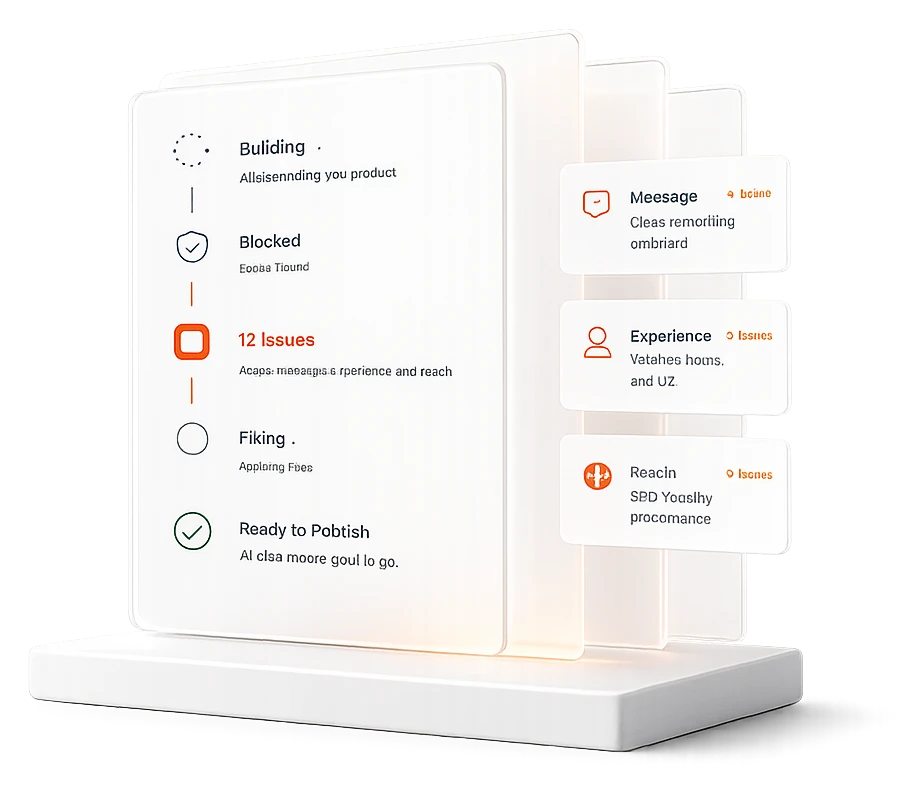
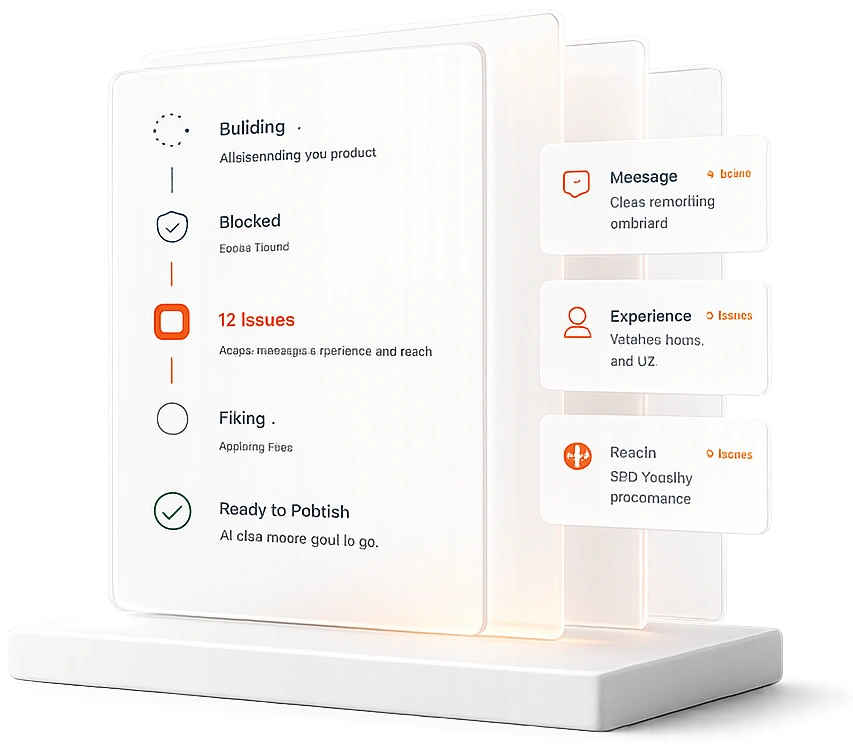
Update marketing components and enhance navigation styles
- Added new tasks to BOARD.md for improved project tracking.
- Refined styles in AuditInput and Header components for better visual consistency.
- Introduced NAV_LINK_MARKETING for tighter marketing navigation.
- Updated marketing copy in nav.test.ts to reflect accurate labeling.
- Adjusted LandingHeroSection for improved layout and visual hierarchy.
- Enhanced AssuranceRow and MarketingHeaderAuth for better user experience and design alignment.

diff --git a/components/marketing/landing/LandingHeroSection.tsx b/components/marketing/landing/LandingHeroSection.tsx
@@ -8,31 +8,31 @@ import { Section } from '@/components/ui/section'
 import { Heading } from '@/components/ui/typography'
 import { HERO } from '@/lib/marketing/copy'
 
-/** Official glass hero (RGBA WebP). No re-key/resample beyond encode. */
+/** Official glass hero (RGBA WebP). */
 const HERO_GLASS = {
   src: '/marketing/visuals/home-hero-glass.webp',
-  width: 901,
-  height: 790,
+  width: 853,
+  height: 747,
 } as const
 
 export function LandingHeroSection() {
   return (
     <Section
-      spacing="marketing"
-      className="relative overflow-hidden pb-6 pt-2 sm:pb-8 lg:pb-10"
+      spacing="compact"
+      className="relative flex min-h-0 flex-col overflow-x-clip pb-4 pt-1 sm:pb-5 lg:pb-6"
     >
-      <Container variant="wide" className="xl:max-w-7xl">
-        <div className="grid items-center gap-8 lg:grid-cols-[minmax(0,0.92fr)_minmax(0,1.18fr)] lg:gap-x-4 xl:gap-x-8">
-          <div className="order-1 flex max-w-xl flex-col gap-5 sm:gap-5 lg:max-w-[34rem] xl:max-w-[36rem]">
-            <p className="inline-flex items-center gap-2 font-mono text-[0.6875rem] font-medium uppercase tracking-label text-brand sm:text-xs">
+      <Container variant="wide" className="flex flex-col xl:max-w-[80rem]">
+        <div className="grid items-start gap-4 lg:grid-cols-[minmax(0,0.9fr)_minmax(0,1.2fr)] lg:gap-x-2 xl:gap-x-5">
+          <div className="order-1 flex max-w-xl flex-col gap-3 sm:gap-3.5 lg:max-w-[34rem] lg:pt-3 xl:max-w-[36rem] xl:pt-4">
+            <p className="inline-flex items-center gap-2 font-mono text-[0.6875rem] font-medium uppercase tracking-[0.2em] text-brand sm:text-xs">
               <span className="h-1.5 w-1.5 shrink-0 rounded-full bg-brand" aria-hidden />
               {HERO.badge}
             </p>
 
-            <div className="space-y-3 sm:space-y-3.5">
+            <div className="space-y-3.5 sm:space-y-4">
               <Heading
                 as="h1"
-                className="max-w-[14ch] text-[2.5rem] leading-[1.02] tracking-display sm:text-[2.875rem] sm:leading-[1.03] lg:text-[3.375rem] xl:text-[3.625rem]"
+                className="max-w-[14ch] text-[2.75rem] font-bold leading-[1.08] tracking-display sm:text-[3.125rem] sm:leading-[1.08] lg:text-[3.625rem] xl:text-[3.875rem]"
               >
                 {HERO.headlineDisplay}
                 {HERO.headlineAccentPeriod ? (
@@ -41,14 +41,14 @@ export function LandingHeroSection() {
                   </span>
                 ) : null}
               </Heading>
-              <p className="max-w-[36ch] text-[0.9375rem] leading-relaxed text-muted-foreground text-pretty sm:max-w-md sm:text-base lg:text-lg">
+              <p className="max-w-[42ch] text-[0.9375rem] leading-relaxed text-muted-foreground/95 text-pretty sm:max-w-xl sm:text-base lg:max-w-[34rem] lg:text-[1.0625rem] lg:leading-relaxed">
                 {HERO.subhead}
               </p>
             </div>
 
             <div
               id="audit"
-              className="w-full scroll-mt-[calc(var(--header-offset)+1rem)]"
+              className="w-full scroll-mt-[calc(var(--header-offset)+1rem)] pt-0.5"
             >
               <AuditInput
                 variant="landing"
@@ -60,25 +60,26 @@ export function LandingHeroSection() {
 
             <AssuranceRow />
 
-            <p className="inline-flex items-center gap-2 text-sm text-muted-foreground">
+            {/* Product-true trust only — no invented member counts or avatars */}
+            <p className="inline-flex items-center gap-2 text-sm text-foreground/80">
               <Zap className="h-3.5 w-3.5 shrink-0 text-brand" strokeWidth={2} aria-hidden />
-              <span className="font-medium text-foreground/80">{HERO.trustLine}</span>
+              <span className="font-medium">{HERO.trustLine}</span>
             </p>
 
             <EditorToolMarks
               compact
               showLabel
-              className="pt-1 [&_p]:font-mono [&_p]:text-[0.6875rem] [&_p]:uppercase [&_p]:tracking-label [&_ul]:justify-start [&_ul]:gap-x-4 [&_ul]:gap-y-2 [&_li]:text-[0.8125rem] [&_li_svg]:h-4 [&_li_svg]:w-4"
+              className="mt-0.5 space-y-2 [&_p]:font-mono [&_p]:text-[0.625rem] [&_p]:font-medium [&_p]:uppercase [&_p]:tracking-[0.16em] [&_p]:text-muted-foreground/85 [&_ul]:flex-nowrap [&_ul]:justify-start [&_ul]:gap-x-3.5 [&_ul]:gap-y-2 [&_li]:gap-1.5 [&_li]:text-[0.75rem] [&_li]:font-semibold [&_li]:tracking-normal [&_li]:text-foreground/70 [&_li_svg]:h-4 [&_li_svg]:w-4 [&_li_svg]:opacity-95"
             />
           </div>
 
-          <div className="order-2 relative mx-auto w-full max-w-[24rem] sm:max-w-[28rem] lg:mx-0 lg:max-w-none lg:justify-self-stretch">
+          <div className="order-2 relative mx-auto w-full max-w-[24rem] sm:max-w-[28rem] lg:mx-0 lg:-mt-1 lg:flex lg:max-w-none lg:items-start lg:justify-self-end xl:-mt-2">
             <div
               aria-hidden
-              className="pointer-events-none absolute left-[12%] top-[18%] h-[58%] w-[70%] rounded-full bg-[radial-gradient(ellipse_at_center,hsl(var(--brand)/0.18),transparent_68%)] blur-2xl"
+              className="pointer-events-none absolute left-[12%] top-[10%] h-[68%] w-[75%] rounded-full bg-[radial-gradient(ellipse_at_center,hsl(var(--brand)/0.26),transparent_68%)] blur-[64px]"
             />
             <div
-              className="relative mx-auto w-full lg:ml-auto lg:mr-[-2%] lg:w-[min(108%,44rem)] xl:mr-[-4%] xl:w-[min(112%,48rem)]"
+              className="relative mx-auto w-full lg:ml-auto lg:w-[min(105%,44rem)] xl:w-[min(108%,48rem)]"
               style={{ aspectRatio: `${HERO_GLASS.width} / ${HERO_GLASS.height}` }}
             >
               <Image
@@ -89,7 +90,7 @@ export function LandingHeroSection() {
                 priority
                 unoptimized
                 sizes="(min-width: 1280px) 48rem, (min-width: 1024px) 44rem, (min-width: 640px) 28rem, 24rem"
-                className="h-full w-full select-none object-contain object-center drop-shadow-[0_28px_48px_hsl(240_8%_5%/0.14)] lg:object-right"
+                className="h-full w-full select-none object-contain object-center drop-shadow-[0_20px_40px_-10px_hsl(240_8%_5%/0.1)] lg:object-right"
                 draggable={false}
               />
             </div>
@@ -98,7 +99,7 @@ export function LandingHeroSection() {
 
         <a
           href="#sample-review"
-          className="mx-auto mt-8 flex w-fit flex-col items-center gap-1 pb-1 text-[0.625rem] font-medium uppercase tracking-[0.18em] text-muted-foreground/70 transition-colors hover:text-muted-foreground sm:mt-10"
+          className="mx-auto mt-3 flex w-fit flex-col items-center gap-0.5 text-[0.625rem] font-medium uppercase tracking-[0.18em] text-muted-foreground/85 transition-colors hover:text-muted-foreground sm:mt-4"
         >
           {HERO.scrollHint}
           <ChevronDown className="h-3.5 w-3.5 animate-bounce motion-reduce:animate-none" aria-hidden />

diff --git a/components/audit/AuditInput.tsx b/components/audit/AuditInput.tsx
@@ -168,16 +168,16 @@ export function AuditInput({
     <div className={cn('flex w-full flex-col gap-3', isLanding ? 'w-full' : 'max-w-2xl')}>
       <form onSubmit={handleSubmit} className="flex flex-col gap-2">
         {isLanding ? (
-          <InputGroup className="gap-1.5 rounded-full border-border/50 bg-background p-1.5 shadow-[0_1px_2px_hsl(240_8%_5%/0.04),0_12px_32px_-14px_hsl(240_8%_5%/0.2)] sm:flex-row sm:items-center sm:gap-1 sm:p-1.5 sm:pr-1.5">
+          <InputGroup className="gap-1.5 rounded-[1.35rem] border-border/35 bg-background p-1.5 shadow-[0_2px_4px_hsl(240_8%_5%/0.04),0_16px_40px_-16px_hsl(240_8%_5%/0.18)] sm:flex-row sm:items-center sm:gap-1 sm:p-[0.4rem] sm:pr-[0.4rem]">
             <label htmlFor={inputId} className="sr-only">
               Website URL
             </label>
             <div className="flex min-w-0 flex-1 items-center">
               <span
-                className="inline-flex shrink-0 items-center self-center pl-3.5 text-muted-foreground/70 sm:pl-4"
+                className="inline-flex shrink-0 items-center self-center pl-3.5 text-muted-foreground/80 sm:pl-4"
                 aria-hidden
               >
-                <Link2 className="h-4 w-4" strokeWidth={1.75} />
+                <Link2 className="h-[1.125rem] w-[1.125rem]" strokeWidth={1.75} />
               </span>
               <InputGroupInput
                 id={inputId}
@@ -202,7 +202,7 @@ export function AuditInput({
                 disabled={busy}
                 aria-invalid={Boolean(urlError)}
                 aria-describedby={describedBy}
-                className="h-11 min-h-11 flex-1 pl-2.5 pr-2 text-[0.9375rem] sm:h-12 sm:min-h-12 sm:pl-2.5 sm:text-base"
+                className="h-12 min-h-12 flex-1 pl-2.5 pr-2 text-[0.9375rem] placeholder:text-muted-foreground/75 sm:h-[3.25rem] sm:min-h-[3.25rem] sm:pl-2.5 sm:text-base sm:placeholder:text-muted-foreground/70"
               />
             </div>
             <Button
@@ -211,7 +211,7 @@ export function AuditInput({
               size="lg"
               disabled={busy}
               className={cn(
-                'h-11 min-h-11 w-full shrink-0 gap-1.5 rounded-full px-4 text-sm font-semibold sm:h-12 sm:min-h-12 sm:w-auto sm:min-w-[10.5rem] sm:gap-2 sm:px-5 sm:text-base'
+                'h-12 min-h-12 w-full shrink-0 gap-1.5 rounded-[calc(1.35rem-5px)] px-5 text-sm font-semibold sm:h-[3.25rem] sm:min-h-[3.25rem] sm:w-auto sm:min-w-[11.5rem] sm:gap-2 sm:px-6 sm:text-base'
               )}
             >
               {busy ? (

diff --git a/components/layout/header.tsx b/components/layout/header.tsx
@@ -8,6 +8,7 @@ import {
   NAV_LINK_ACTIVE,
   NAV_LINK_BASE,
   NAV_LINK_INACTIVE,
+  NAV_LINK_MARKETING,
   NAV_LINK_MOBILE_ACTIVE,
   NAV_LINK_MOBILE_BASE,
 } from '@/lib/site/nav-styles'
@@ -80,7 +81,8 @@ export function Header({
       <Container>
         <div
           className={cn(
-            'grid h-14 items-center gap-3',
+            'grid items-center gap-3',
+            isMarketing ? 'h-[3.75rem] pt-0.5' : 'h-14',
             !showNavigation
               ? 'grid-cols-[1fr_auto]'
               : isMarketing
@@ -89,7 +91,7 @@ export function Header({
                 : 'grid-cols-[auto_1fr_auto]'
           )}
         >
-          <div className="flex min-w-0 items-center gap-3">
+          <div className={cn('flex min-w-0 items-center gap-3', isMarketing && 'translate-y-px')}>
             <span className="sm:hidden">
               <Logo
                 variant="lockup"
@@ -114,15 +116,15 @@ export function Header({
           {showNavigation ? (
             <nav
               className={cn(
-                'items-center gap-0.5',
-                isMarketing ? 'hidden justify-center lg:flex' : 'hidden md:flex'
+                'items-center',
+                isMarketing ? 'hidden justify-center gap-0 lg:flex' : 'hidden gap-0.5 md:flex'
               )}
             >
               {navLinks.map((link) => (
                 <NavLink
                   key={link.href}
                   href={link.href}
-                  className={NAV_LINK_BASE}
+                  className={isMarketing ? NAV_LINK_MARKETING : NAV_LINK_BASE}
                   activeClassName={NAV_LINK_ACTIVE}
                   inactiveClassName={NAV_LINK_INACTIVE}
                 >

diff --git a/components/marketing/landing/AssuranceRow.tsx b/components/marketing/landing/AssuranceRow.tsx
@@ -17,7 +17,7 @@ export function AssuranceRow({ className }: AssuranceRowProps) {
   return (
     <ul
       className={cn(
-        'flex flex-col gap-2.5 sm:flex-row sm:flex-nowrap sm:items-center sm:gap-0',
+        'flex flex-col gap-2 sm:flex-row sm:flex-nowrap sm:items-center sm:gap-0',
         className
       )}
     >
@@ -26,20 +26,20 @@ export function AssuranceRow({ className }: AssuranceRowProps) {
         return (
           <li
             key={item.id}
-            className="inline-flex items-center gap-1.5 whitespace-nowrap text-[0.8125rem] text-muted-foreground sm:gap-2 sm:text-[0.8125rem] lg:text-sm"
+            className="inline-flex items-center gap-1.5 whitespace-nowrap text-[0.8125rem] text-foreground/70 sm:gap-2 lg:text-sm"
           >
             {index > 0 ? (
               <span
                 aria-hidden
-                className="mx-2.5 hidden h-3.5 w-px shrink-0 bg-border sm:mx-3 sm:inline-block"
+                className="mx-2.5 hidden h-3.5 w-px shrink-0 bg-border/80 sm:mx-3 sm:inline-block"
               />
             ) : null}
             <Icon
-              className="h-3.5 w-3.5 shrink-0 text-foreground/55"
+              className="h-3.5 w-3.5 shrink-0 self-center text-foreground/60"
               strokeWidth={1.75}
               aria-hidden
             />
-            <span>{item.label}</span>
+            <span className="leading-none">{item.label}</span>
           </li>
         )
       })}

diff --git a/components/layout/MarketingHeaderAuth.tsx b/components/layout/MarketingHeaderAuth.tsx
@@ -38,7 +38,7 @@ export function MarketingHeaderAuth({
     // mobileTop: signup CTA only (Log in lives in the sheet on small screens).
     if (mode === 'mobileTop') {
       return (
-        <Button variant="brand" size="sm" asChild>
+        <Button variant="brand" size="sm" asChild className="rounded-full px-4 font-semibold">
           <Link href="/#audit" aria-label={HERO.primaryCta}>
             <span className="max-[419px]:hidden">{HERO.primaryCta}</span>
             <span className="hidden max-[419px]:inline" aria-hidden="true">
@@ -59,7 +59,12 @@ export function MarketingHeaderAuth({
           Log in
         </Link>
         <span className="h-4 w-px bg-border/70" aria-hidden />
-        <Button variant="brand" size="sm" asChild>
+        <Button
+          variant="brand"
+          size="sm"
+          asChild
+          className="rounded-full px-5 font-semibold"
+        >
           <Link href="/#audit">
             {HERO.primaryCta}
             <ArrowRight className="h-4 w-4" />

diff --git a/lib/site/nav-styles.ts b/lib/site/nav-styles.ts
@@ -2,6 +2,10 @@
 export const NAV_LINK_BASE =
   'inline-flex min-h-11 items-center rounded-md px-3 py-2 text-sm font-medium transition-colors duration-200 hover:bg-accent hover:text-foreground'
 
+/** Tighter marketing desktop nav to match homepage mockup density. */
+export const NAV_LINK_MARKETING =
+  'inline-flex min-h-10 items-center rounded-md px-2.5 py-1.5 text-sm font-medium transition-colors duration-200 hover:bg-accent hover:text-foreground'
+
 export const NAV_LINK_ACTIVE = 'bg-accent text-foreground font-medium'
 
 export const NAV_LINK_INACTIVE = 'text-muted-foreground'

diff --git a/lib/__tests__/nav.test.ts b/lib/__tests__/nav.test.ts
@@ -7,7 +7,7 @@ describe('marketing nav labels', () => {
     assert.deepEqual(
       MARKETING_LINKS.map((link) => [link.label, link.href]),
       [
-        ['How it works', '/how-it-works'],
+        ['Product', '/how-it-works'],
         ['Examples', '/samples'],
         ['Pricing', '/pricing'],
         ['Docs', '/help'],

diff --git a/lib/site/nav.ts b/lib/site/nav.ts
@@ -1,7 +1,7 @@
 import { BRAND } from '@/lib/marketing/copy'
 
 export const MARKETING_LINKS = [
-  { href: '/how-it-works', label: 'How it works' },
+  { href: '/how-it-works', label: 'Product' },
   { href: '/samples', label: 'Examples' },
   { href: '/pricing', label: 'Pricing' },
   { href: '/help', label: 'Docs' },

diff --git a/.agents/BOARD.md b/.agents/BOARD.md
@@ -12,7 +12,9 @@
 
 | Task ID | Owner | Scope | Completed |
 |---------|-------|-------|-----------|
+| hero-design-pass | auto | Hero denser layout, Product nav, illustration/input polish | 2026-07-25 |
 | homepage-conversion-closeout | auto | Product-true homepage sample mock, hero WebP, docs sync, verify | 2026-07-25 |
+| hero-design-match | auto | Homepage hero visual match to mockup composition/glass/input/logos | 2026-07-25 |
 | hero-sample-mockup-match | auto | Homepage hero + sample mock to mockups (interim; honesty closeout follows) | 2026-07-25 |
 | homepage-completeness-pass | auto | Homepage completeness: shared chrome, a11y tabs, mobile workflow, copy cleanup, footer dedupe, visual QA. | 2026-07-25 |
 | homepage-redesign-mockups | auto | Homepage post-hero redesign to mockups | 2026-07-25 |
